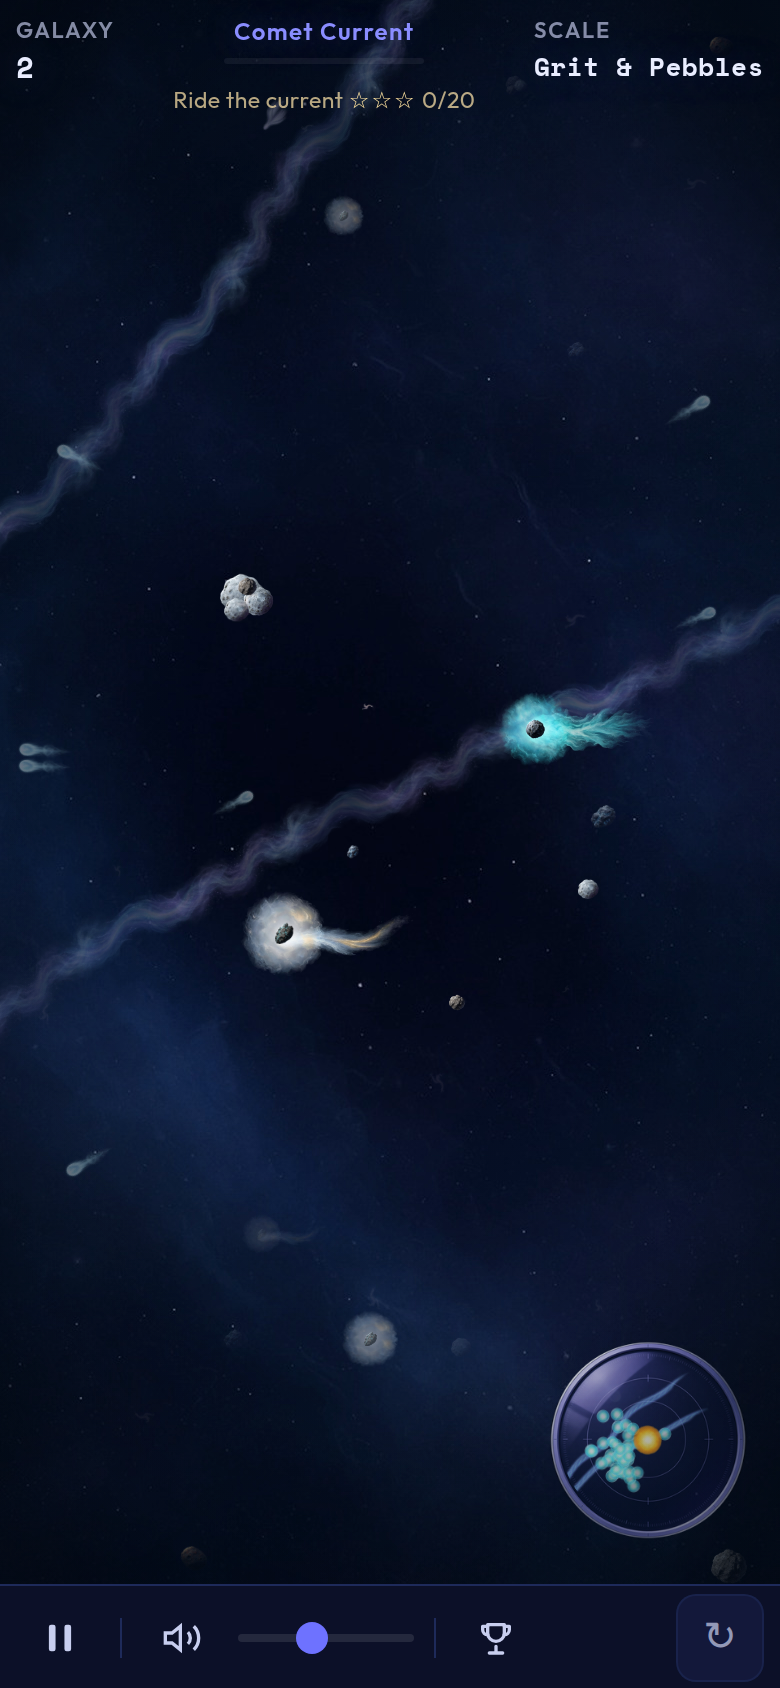
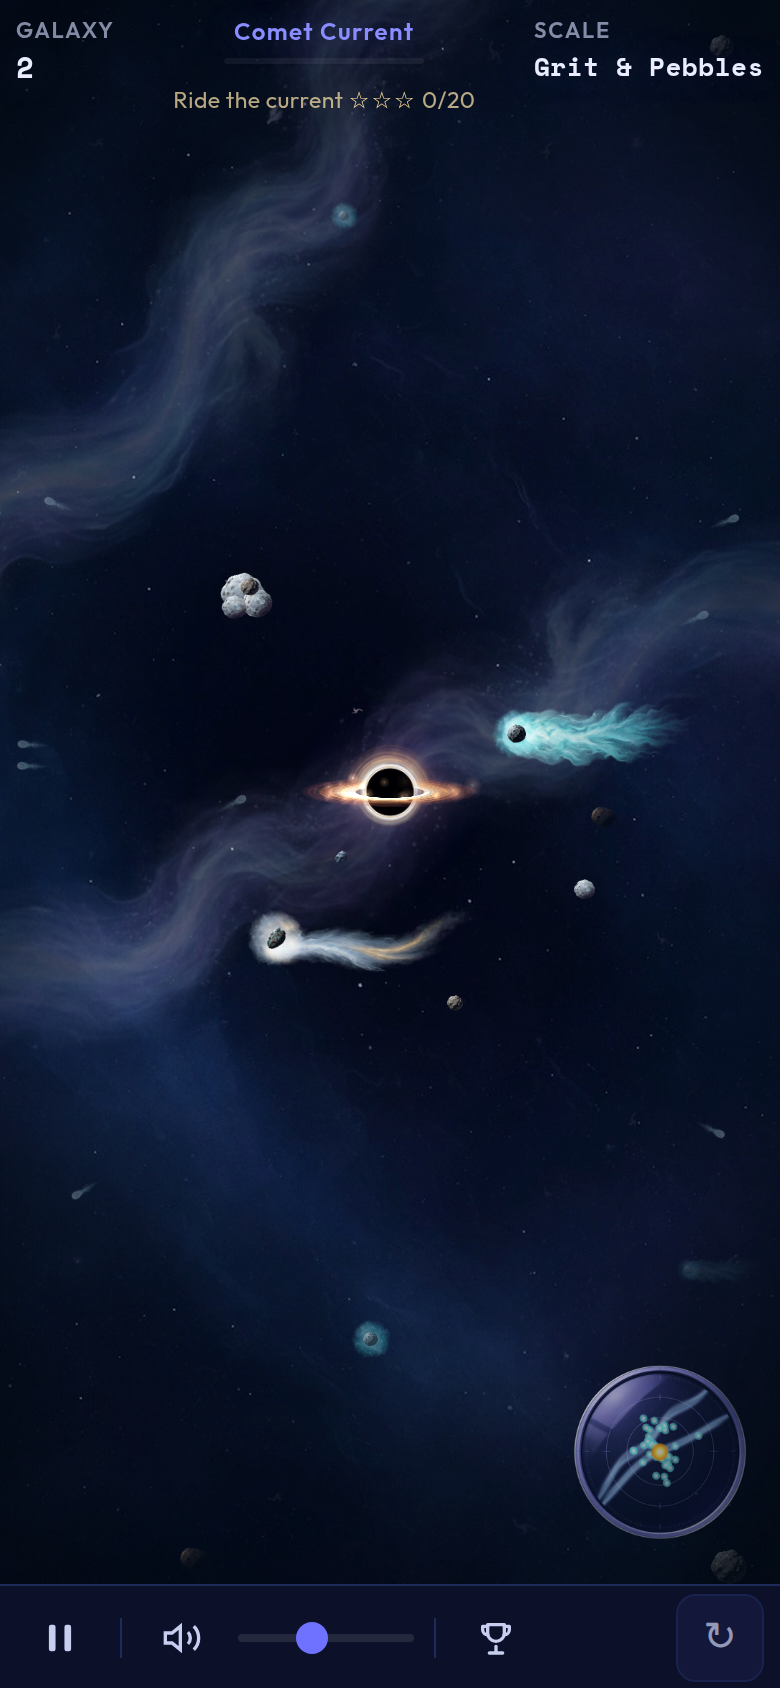
v9.10.0: widen the current and center the hole in the G2 shot
The river update was walking the player off the camera before the
screenshot. Wisps, comet plumes, radar pips, and edge cues now match
the approved sizes and sit in screen blend.

diff --git a/js/core/RadarInstrument.js b/js/core/RadarInstrument.js
@@ -13,7 +13,7 @@ export class RadarInstrument {
    * map pixels. The rim disc is the glass, not a stroke.
    */
   static draw(ctx, w, h, playerX, playerY, entities, range, playerRadius, eatRatio, overlay) {
-    const map = 104;
+    const map = 92;
     const r = map / 2;
     const cx = w - r - 14;
     const cy = h - r - 20;
@@ -44,7 +44,7 @@ export class RadarInstrument {
       const id = tooBig ? "pip-big" : "pip-edible";
       const spr = cat.sprite(id);
       if (!spr) continue;
-      const s = tooBig ? 12 : 8;
+      const s = tooBig ? 7 : 5;
       ctx.globalAlpha = tooBig ? 0.9 : 0.8;
       cat.blit(ctx, spr, ex, ey, s, s);
     }
@@ -52,7 +52,7 @@ export class RadarInstrument {
     const player = cat.sprite("player");
     if (player) {
       ctx.globalAlpha = 1;
-      cat.blit(ctx, player, cx, cy, 18, 18);
+      cat.blit(ctx, player, cx, cy, 11, 11);
     }
     ctx.restore();
   }
@@ -61,10 +61,10 @@ export class RadarInstrument {
   static ribbon(ctx, pts, ox, oy, k, rim, alpha) {
     const spr = Theme.radar.sprite("current");
     if (!spr || !pts || pts.length < 2 || !(k > 0)) return;
-    const drawW = 22;
+    const drawW = 28;
     const drawH = drawW * (spr.h / spr.w);
     const lim = rim ? (rim.r + drawW) * (rim.r + drawW) : 0;
-    const a = alpha > 0 ? alpha : 0.55;
+    const a = alpha > 0 ? alpha : 0.35;
     for (let s = 0; s < pts.length - 1; s += 2) {
       const ax = pts[s][0], ay = pts[s][1];
       const bx = pts[s + 1][0], by = pts[s + 1][1];
@@ -77,6 +77,7 @@ export class RadarInstrument {
       ctx.save();
       ctx.translate(x, y);
       ctx.rotate(Math.atan2(by - ay, bx - ax));
+      ctx.globalCompositeOperation = "screen";
       ctx.globalAlpha = a;
       Theme.radar.blit(ctx, spr, 0, 0, drawW, drawH);
       ctx.restore();

diff --git a/js/core/CurrentStream.js b/js/core/CurrentStream.js
@@ -95,10 +95,9 @@ export class CurrentStream {
       const rv = rivers[r];
       const pts = rv.pts;
       if (!pts || pts.length < 2) continue;
-      const thick = rv.w * 0.28;
-      const drawH = thick;
+      const drawH = rv.w * 1.15;
       const drawW = drawH * (a.w / a.h);
-      const step = drawW * 0.5;
+      const step = drawW * 0.42;
       if (!(step > 1)) continue;
       let acc = 0;
       let next = step * 0.35;
@@ -114,10 +113,12 @@ export class CurrentStream {
           const x = ax + dx * k, y = ay + dy * k;
           const ang = Math.atan2(dy, dx);
           const spr = ((n + r) & 1) ? b : a;
+          const op = (n % 3 === 0 ? 0.14 : n % 3 === 1 ? 0.17 : 0.2) * cover;
           ctx.save();
           ctx.translate(x, y);
           ctx.rotate(ang);
-          ctx.globalAlpha = (n % 3 === 0 ? 0.18 : n % 3 === 1 ? 0.22 : 0.26) * cover;
+          ctx.globalCompositeOperation = "screen";
+          ctx.globalAlpha = op;
           cat.blit(ctx, spr, 0, 0, drawW, drawH);
           ctx.restore();
           next += step;
@@ -143,12 +144,13 @@ export class CurrentStream {
       const x = p.x + nx * m.side * rv.w;
       const y = p.y + ny * m.side * rv.w;
       const spr = m.which ? s1 : s0;
-      const len = rv.w * 0.2;
+      const len = rv.w * 0.14;
       const h = len * (spr.h / spr.w);
       ctx.save();
       ctx.translate(x, y);
       ctx.rotate(m.ang);
-      ctx.globalAlpha = 0.42 * cover;
+      ctx.globalCompositeOperation = "screen";
+      ctx.globalAlpha = 0.28 * cover;
       cat.blit(ctx, spr, 0, 0, len, h);
       ctx.restore();
     }

diff --git a/js/core/EdgeCue.js b/js/core/EdgeCue.js
@@ -19,11 +19,12 @@ export class EdgeCue {
   static draw(ctx, x, y, ang, alpha, which) {
     const spr = Theme.current.sprite(which ? "mote-2" : "mote-1");
     if (!spr || !(alpha > 0)) return false;
-    const w = 30;
+    const w = 18;
     const h = w * (spr.h / spr.w);
     ctx.save();
     ctx.translate(x, y);
     ctx.rotate(ang);
+    ctx.globalCompositeOperation = "screen";
     ctx.globalAlpha = alpha;
     Theme.current.blit(ctx, spr, 0, 0, w, h);
     ctx.restore();
@@ -32,7 +33,7 @@ export class EdgeCue {
 
   /** Screen-space cues for the nearest off-screen edibles and power-ups. */
   static marks(ctx, entities, w, h, camX, camY, playerRadius, zoom, eatRatio) {
-    const margin = 22;
+    const margin = 16;
     let n = 0;
     for (const e of entities) {
       if (e.consuming) continue;
@@ -61,7 +62,7 @@ export class EdgeCue {
       const ang = Math.atan2(sy - h / 2, sx - w / 2);
       const edgeX = w / 2 + Math.cos(ang) * (w / 2 - margin);
       const edgeY = h / 2 + Math.sin(ang) * (h / 2 - margin);
-      EdgeCue.draw(ctx, edgeX, edgeY, ang, e.powerup ? 0.62 : 0.48, e.powerup ? 1 : 0);
+      EdgeCue.draw(ctx, edgeX, edgeY, ang, e.powerup ? 0.55 : 0.36, e.powerup ? 1 : 0);
     }
   }
 }

diff --git a/js/core/CometTail.js b/js/core/CometTail.js
@@ -71,7 +71,7 @@ export class CometTail {
   drawComet(ctx, x, y, r, alpha, color, rpx, speed, variant = 0) {
     const spr = Theme.comets.sprite(variant ? "tail-silver" : "tail-cyan");
     if (!spr || !(alpha > 0) || !(r > 0)) return false;
-    const len = r * (9.2 + Math.min(3.6, (speed || 0) * 2.4));
+    const len = r * (14.0 + Math.min(5.0, (speed || 0) * 3.2));
     return this.drawPainted(ctx, x, y, spr, len, alpha * 0.92);
   }
 
@@ -82,6 +82,7 @@ export class CometTail {
     ctx.save();
     ctx.translate(x, y);
     ctx.rotate(this.ang);
+    ctx.globalCompositeOperation = "screen";
     ctx.globalAlpha = alpha;
     Theme.comets.blit(ctx, spr, 0, 0, len, h);
     ctx.restore();

diff --git a/js/worlds.js b/js/worlds.js
@@ -1001,8 +1001,8 @@ export function drawWorldsMinimap(ctx, cx, cy, sc, time, rim = null) {
   const f = W.f;
   const ox = cx + W.ox * sc, oy = cy + W.oy * sc;
   const k = f * sc;
-  for (const rv of W.rivers) RadarInstrument.ribbon(ctx, rv.pts, ox, oy, k, rim, 0.5);
-  if (W.aurora) RadarInstrument.ribbon(ctx, W.aurora.pts, ox, oy, k, rim, 0.4);
+  for (const rv of W.rivers) RadarInstrument.ribbon(ctx, rv.pts, ox, oy, k, rim, 0.35);
+  if (W.aurora) RadarInstrument.ribbon(ctx, W.aurora.pts, ox, oy, k, rim, 0.35);
   for (const p of W.pulsars) {
     RadarInstrument.mark(ctx, cx + p.x * f * sc, cy + p.y * f * sc, 8, "pip-big", 0.7);
   }

diff --git a/js/core/Comet.js b/js/core/Comet.js
@@ -51,12 +51,14 @@ export class Comet {
     const coma = Theme.comets.sprite(look.coma);
     const nucleus = Theme.comets.sprite(look.nucleus);
     if (!coma || !nucleus) return false;
-    const cd = r * 5.6;
+    const cd = r * 3.8;
     const nd = r * 1.45;
     ctx.save();
     ctx.translate(x, y);
-    ctx.globalAlpha = alpha * 0.92;
+    ctx.globalCompositeOperation = "screen";
+    ctx.globalAlpha = alpha * 0.9;
     Theme.comets.blit(ctx, coma, 0, 0, cd, cd);
+    ctx.globalCompositeOperation = "source-over";
     ctx.globalAlpha = alpha;
     Theme.comets.blit(ctx, nucleus, 0, 0, nd, nd);
     ctx.restore();

diff --git a/CHANGELOG.md b/CHANGELOG.md
@@ -9,7 +9,7 @@ Comets, grit, dust, the Comet Current, the edge cues, and the radar are painting
 - `Comet` draws a cyan or silver coma and nucleus from `assets/comets`. The seed picks the pair. Nothing is tinted.
 - `CometTail` aims the painted plume behind the comet's own travel, in every galaxy, and on a comet find. `CometSparkle` drifts a few ice-dust motes along a moving plume and drops them when the comet is eaten or leaves. Reduce Motion does not spawn or drift them.
 - `SpaceRock` draws one painted pebble for a loose rock or a meteor, and a small cluster of three or four for the gravel look, plus a dust wisp. The sway stays small so the upper-left light stays upper-left. `SpaceDust` draws the dust filament.
-- `CurrentStream` replaces Galaxy 2's stroked river with soft wisps (about 18–26% opacity) and motes that follow the current. Reduce Motion freezes the motes. `assets/backdrop_current.jpg` is the calm sky with no diagonal stripe.
+- `CurrentStream` replaces Galaxy 2's stroked river with wide hushed wisps (about 14–20% opacity, screen blend) and motes that follow the current. Reduce Motion freezes the motes. `assets/backdrop_current.jpg` is the calm sky with no diagonal stripe.
 - `EdgeCue` replaces the flat edge triangles and the landmark chevron in every galaxy. `RadarInstrument` replaces the radar's rects, rings, square blips, and the river tubes. Landmarks in other galaxies are small painted pips.
 - A bite of a rock, a dust mote, or a comet leaves that painted piece in the debris field. A hot meteor still has its entry streak and its heated leading edge.
 - `Theme.start` loads the five new indexes and still never rejects into boot. A missing index is retried with backoff and when the network returns. An entity spawned while the index is down can still be eaten, and it draws once the pictures arrive. The new files are in the service worker precache.
